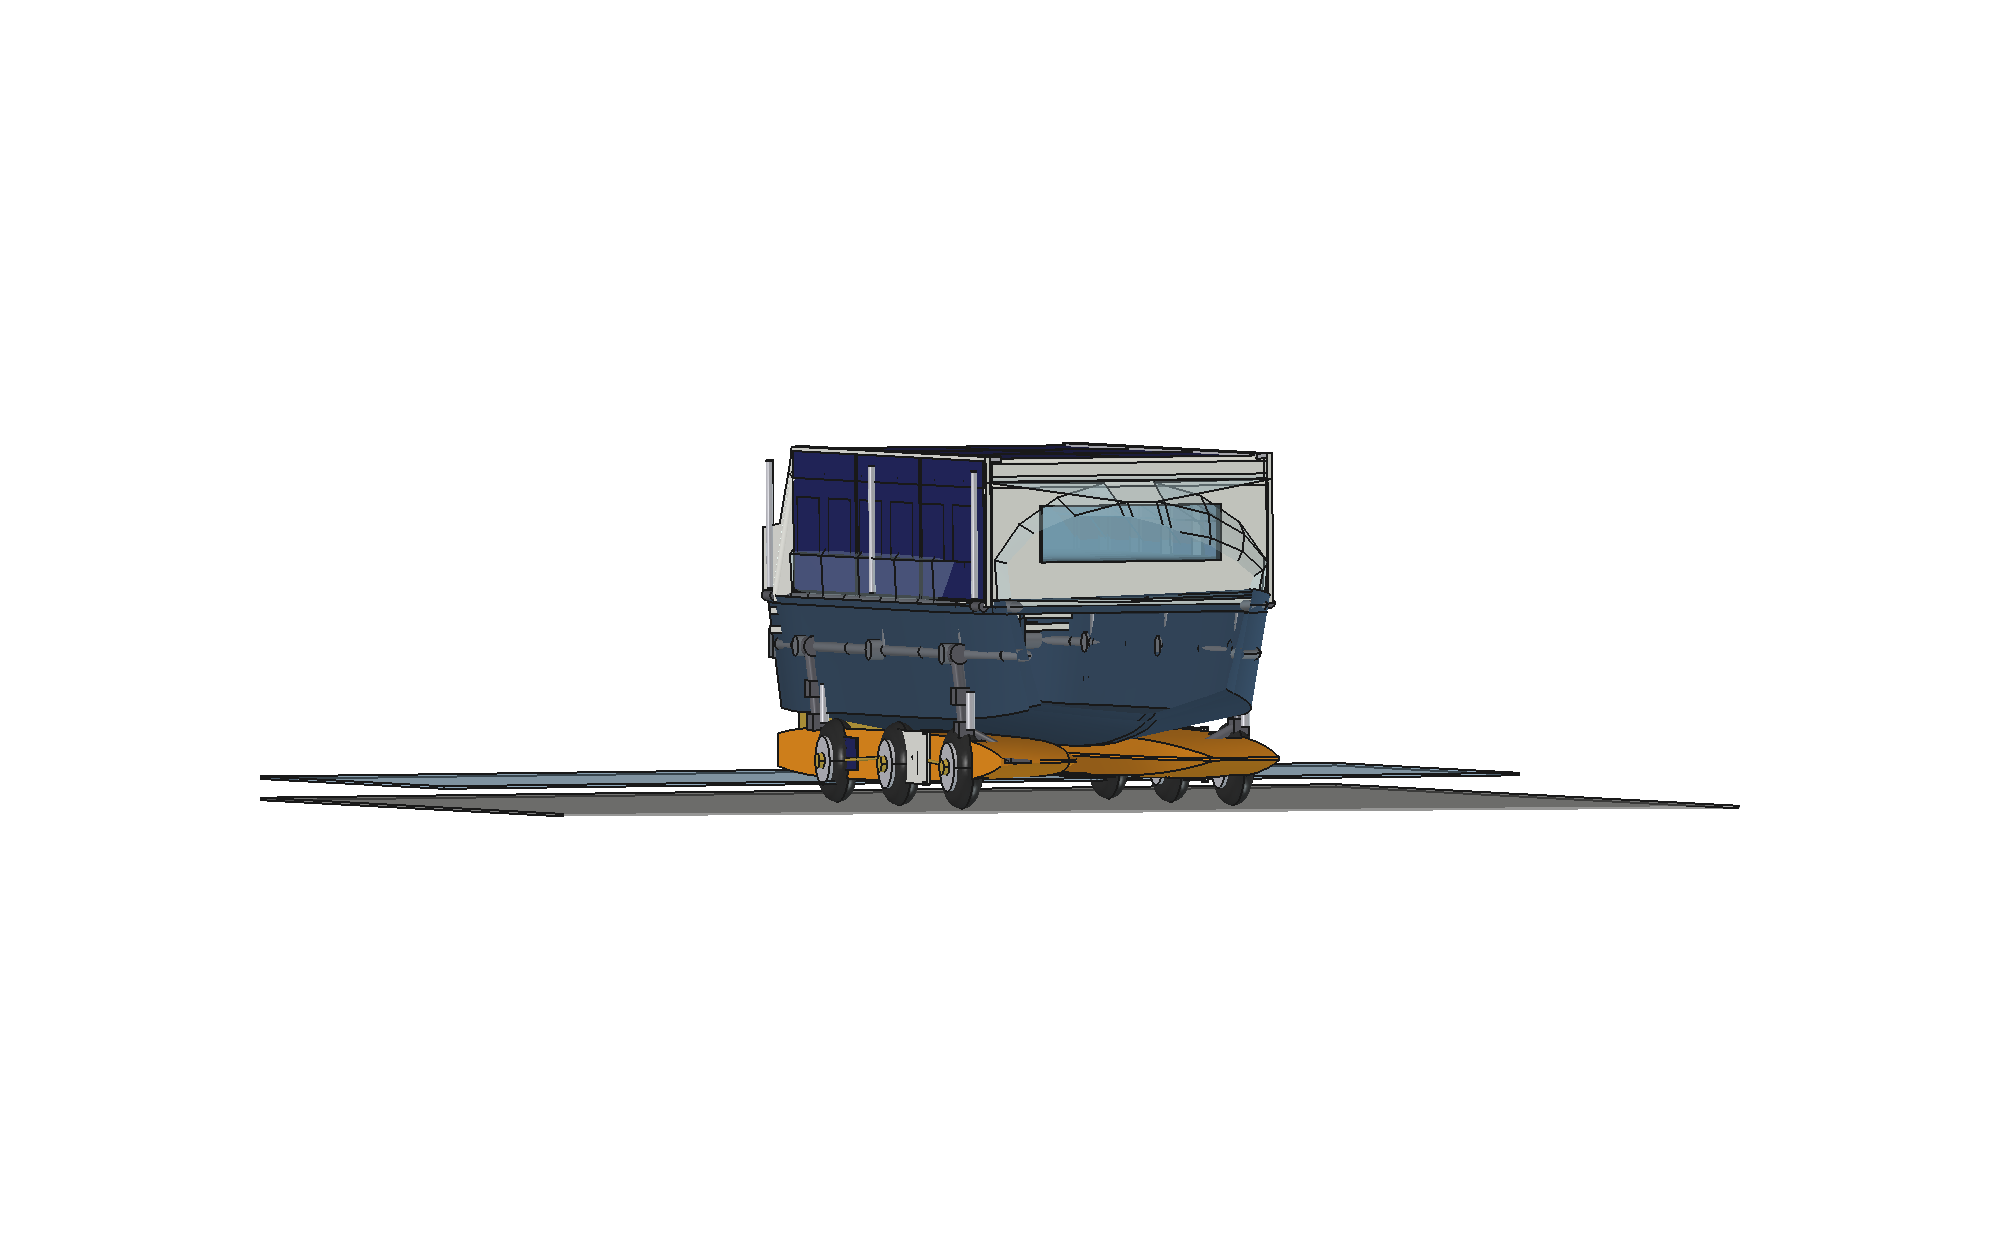
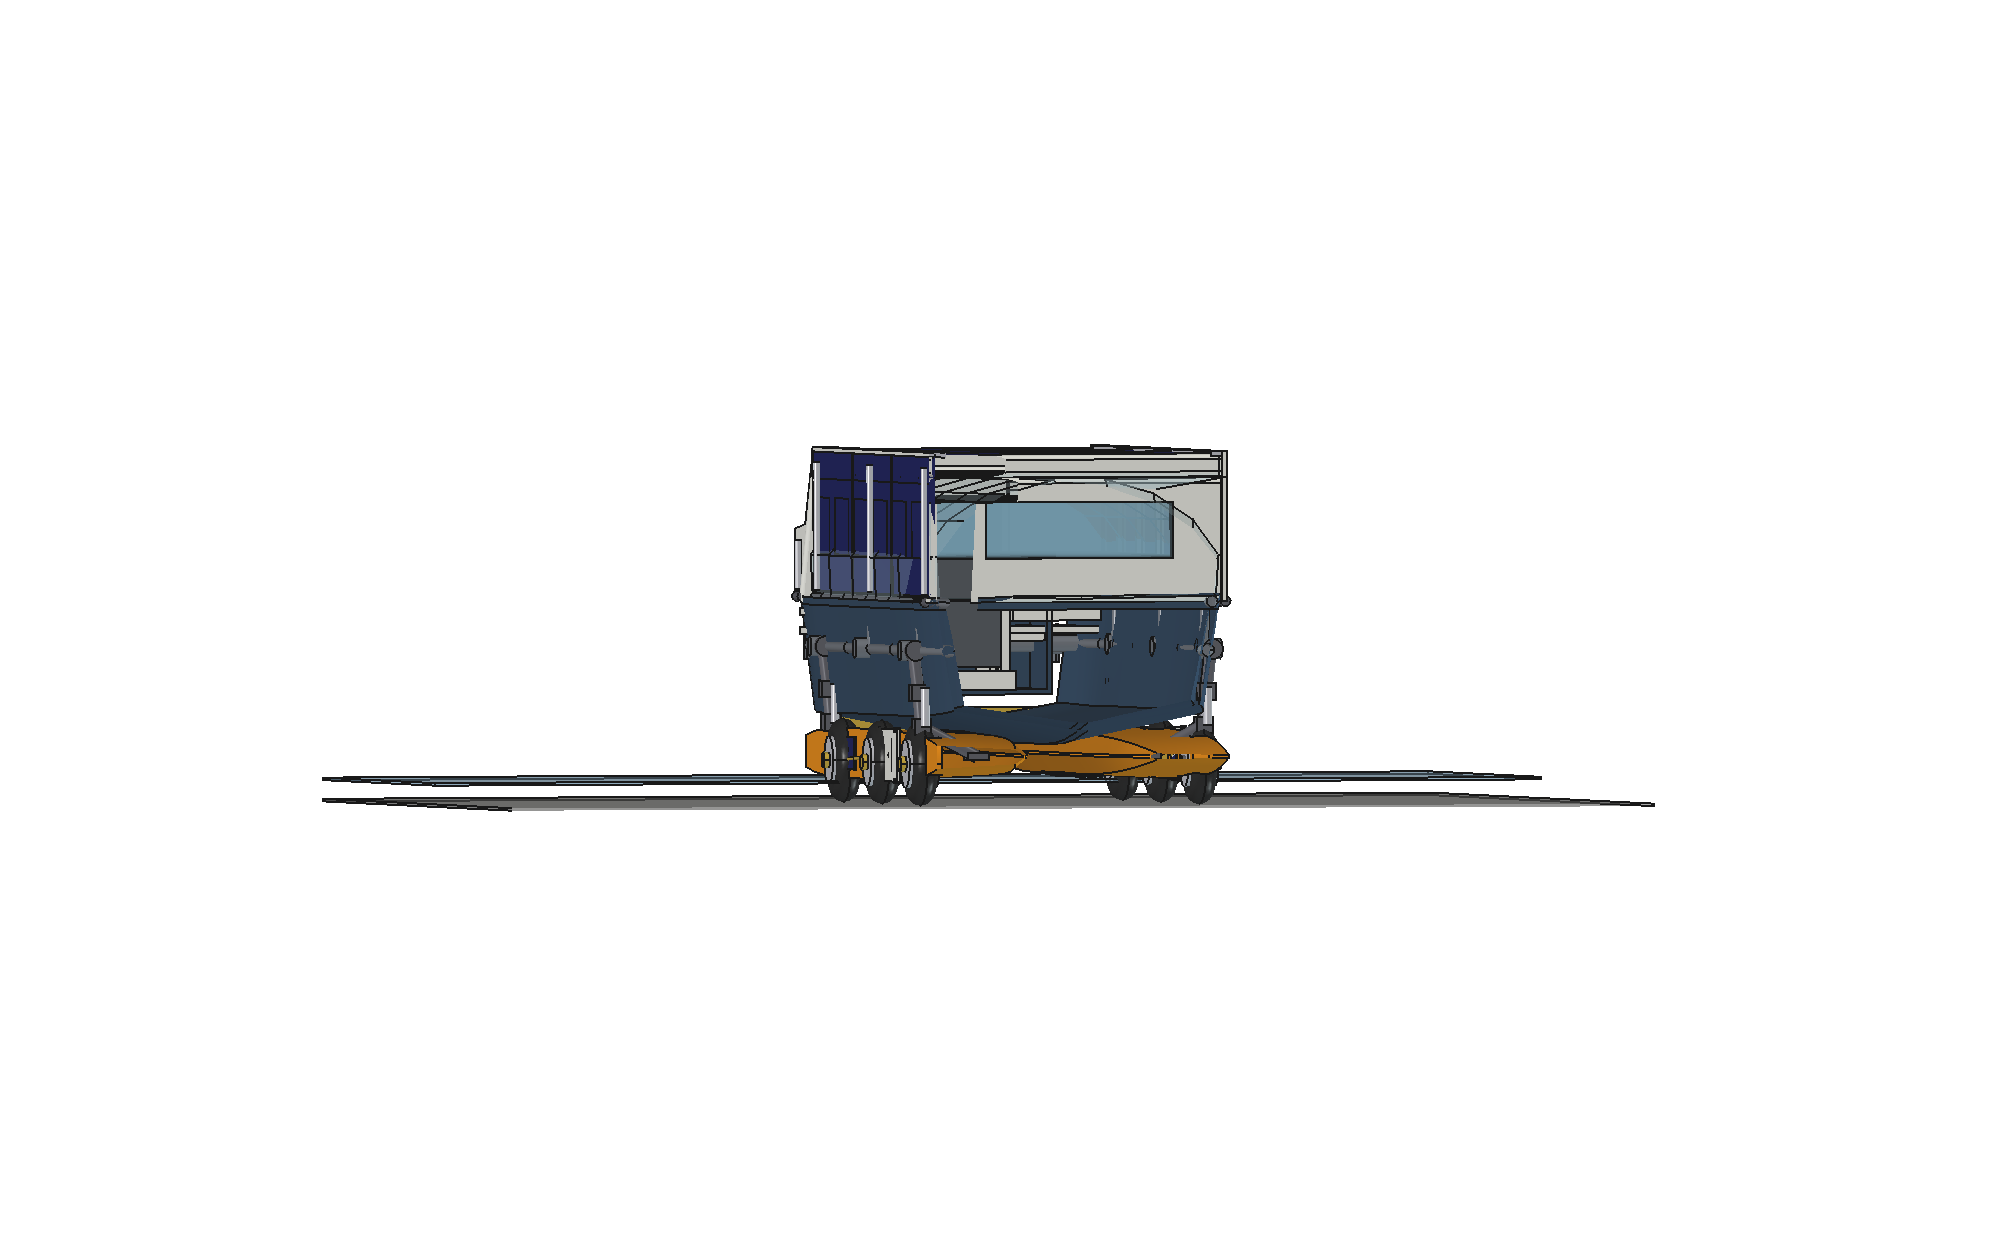
Remove stray brace ends hanging outside the passage
The under-deck balcony braces ran a fixed y-span, but over the narrow
passage the plate is only 540 mm wide — so 540 mm of every aft brace
hung in open air. Braces are now clipped to the plate outline: the
wide deck section and the passage each get their own span.

Changed region(s): [[0.124, 0.3432, 0.868, 0.6552]]

diff --git a/freecad/build_boat.py b/freecad/build_boat.py
@@ -421,11 +421,15 @@ def build_balcony(fold_deg):
     rail = rail.fuse(posed(box(P.PASSAGE_X - 340 - P.BALC_X0, 40, 90,
                                (P.BALC_X0, P.PASSAGE_W - 40, P.BALC_T))))
     # diagonal brackets under the deck, back to the hull side
+    # under-deck braces: each must stop at the plate edge, so the wide
+    # section and the narrow passage get their own spans
     braces = []
-    for bx in (P.BALC_X0 + 250, (P.BALC_X0 + P.BALC_X1) / 2,
+    for bx in (P.PASSAGE_X + 300, (P.PASSAGE_X + P.BALC_X1) / 2,
                P.BALC_X1 - 250):
         braces.append(posed(rod((bx, 60, -20),
                                 (bx, P.BALC_SPAN - 120, -20), 55)))
+    braces.append(posed(rod((P.BALC_X0 + 260, 60, -20),
+                            (P.BALC_X0 + 260, P.PASSAGE_W - 90, -20), 55)))
     # support legs down onto the wheel-box lids (open pose only)
     if abs(fold_deg) < 10:
         leg_len = P.BALC_HINGE_Z - P.WHEELBOX_TOP_Z
